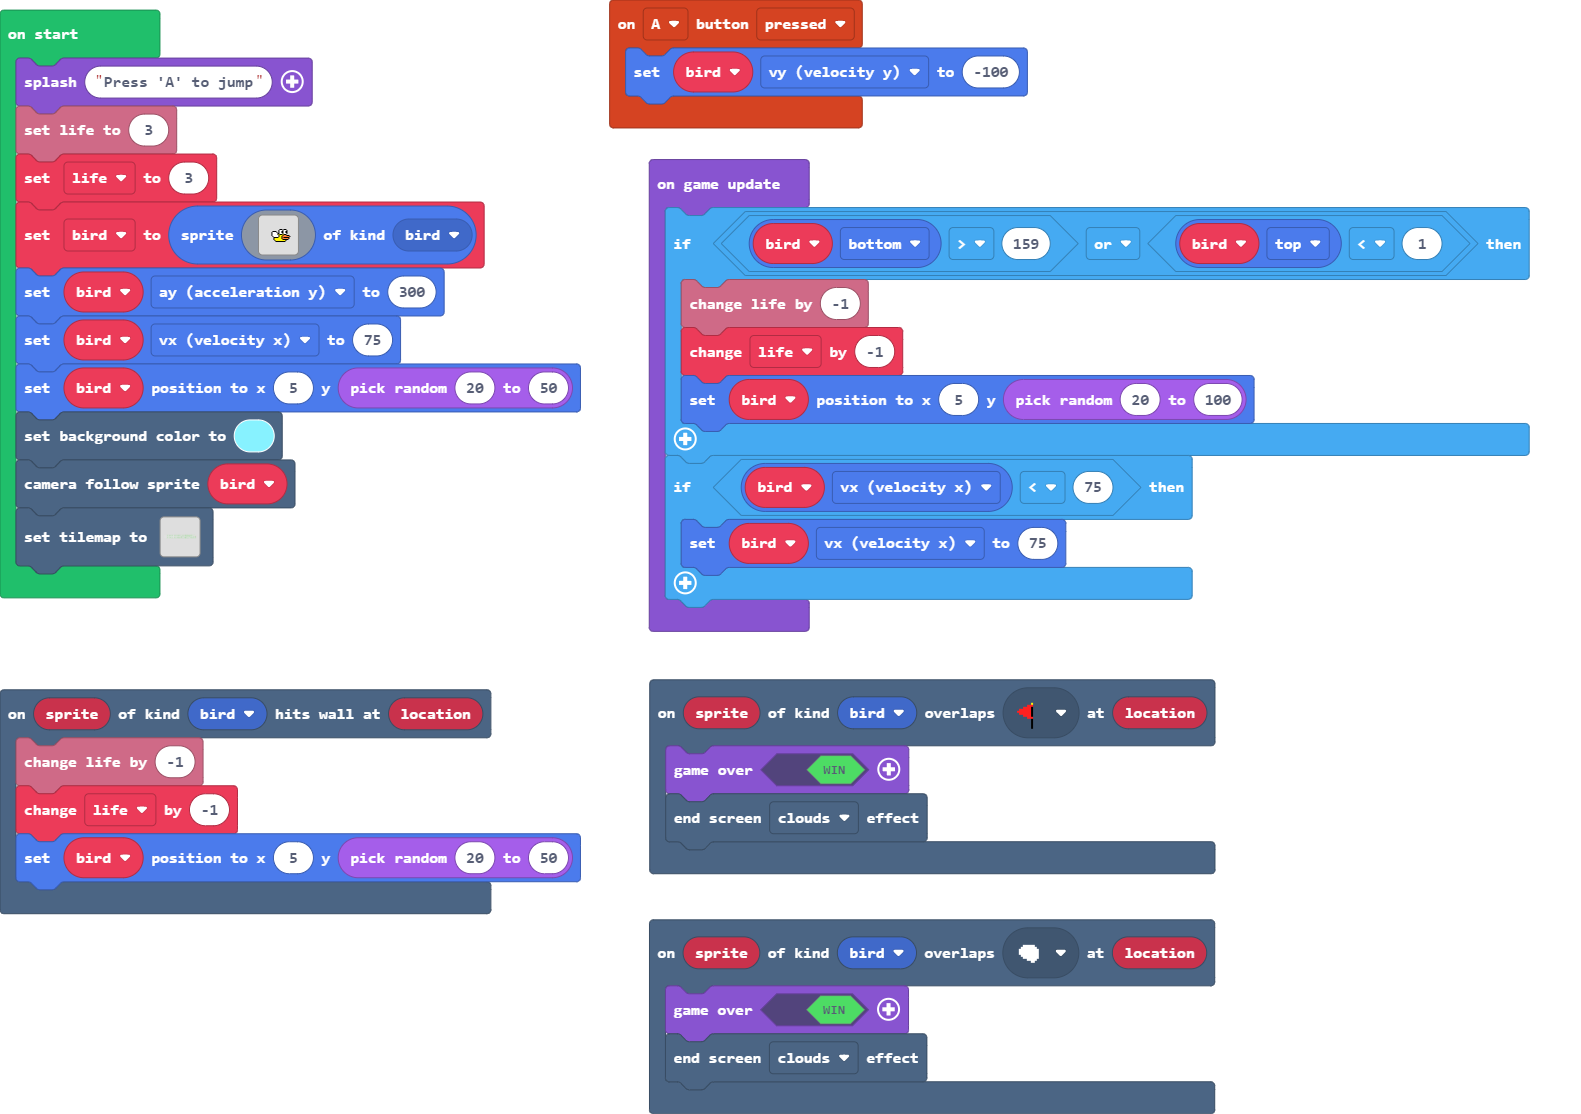
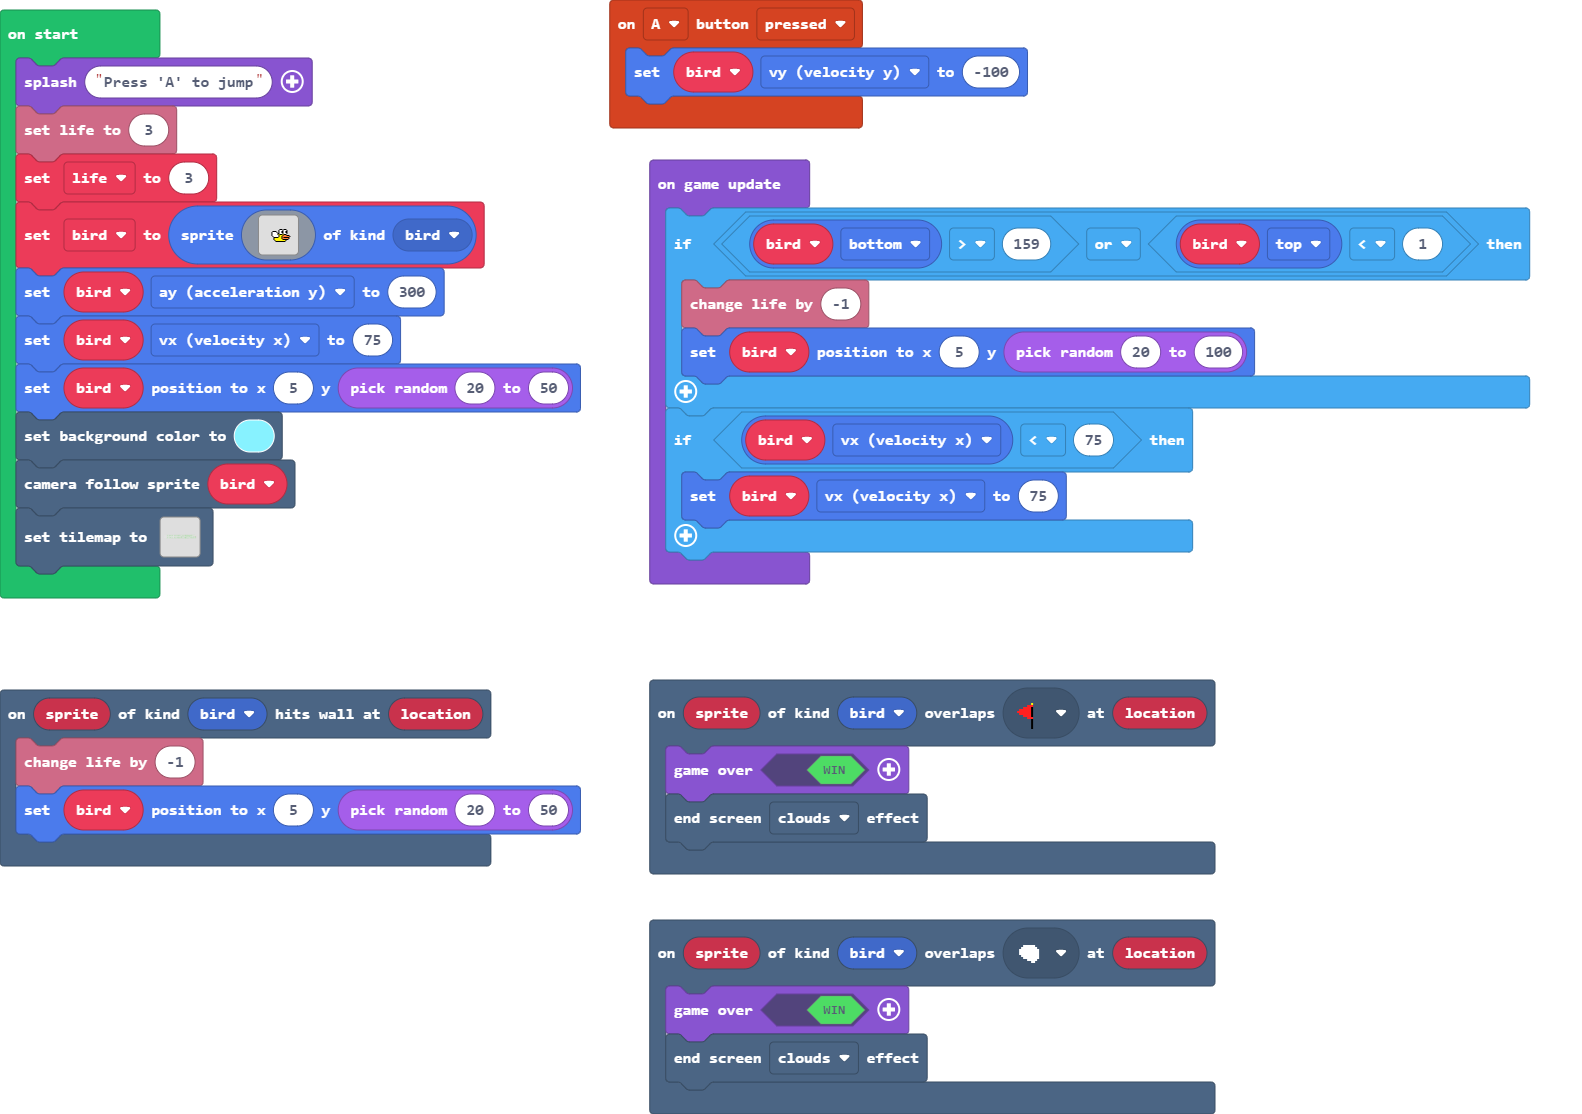
Update main.blocks, main.ts

diff --git a/main.ts b/main.ts
@@ -17,7 +17,6 @@ scene.onOverlapTile(SpriteKind.bird, assets.tile`myTile0`, function (sprite, loc
 })
 scene.onHitWall(SpriteKind.bird, function (sprite, location) {
     info.changeLifeBy(-1)
-    life += -1
     bird.setPosition(5, randint(20, 50))
 })
 let bird: Sprite = null
@@ -67,7 +66,6 @@ tiles.setTilemap(tilemap`level2`)
 game.onUpdate(function () {
     if (bird.bottom > 159 || bird.top < 1) {
         info.changeLifeBy(-1)
-        life += -1
         bird.setPosition(5, randint(20, 100))
     }
     if (bird.vx < 75) {
